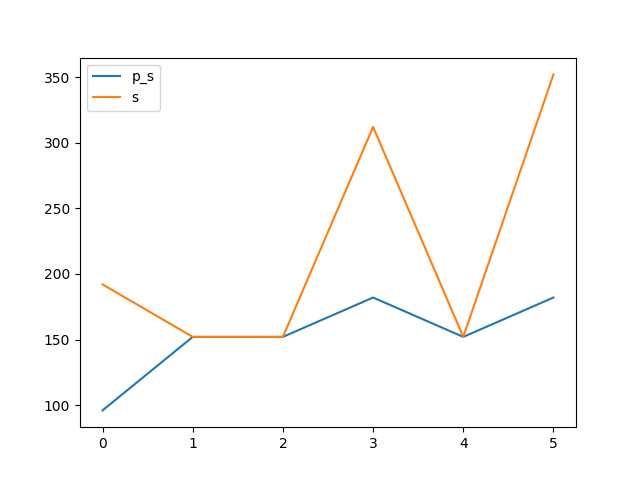
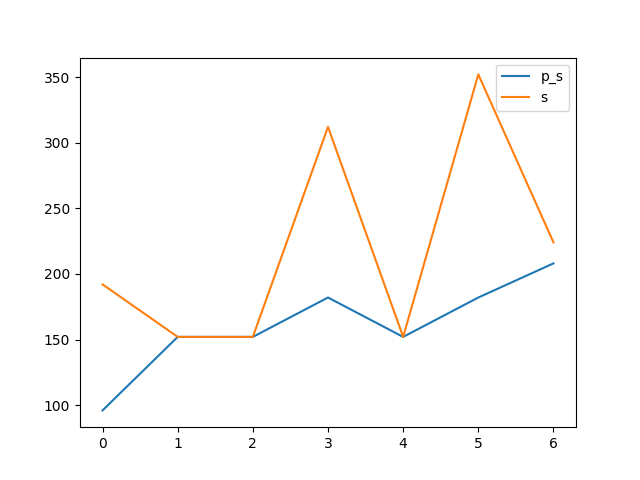
0x0006

diff --git a/benchmark.md b/benchmark.md
@@ -12,6 +12,8 @@ Synthesising 0x0004 pexact:152 r=3 exact:152 r=3
 
 Synthesising 0x0005 pexact:182 r=4 exact:352 r=4
 
+Synthesising 0x0006 pexact:208 r=4 exact:224 r=3
+
 ![image1](benchmark_r.png?)
 
 ![image2](benchmark_s.png?)
